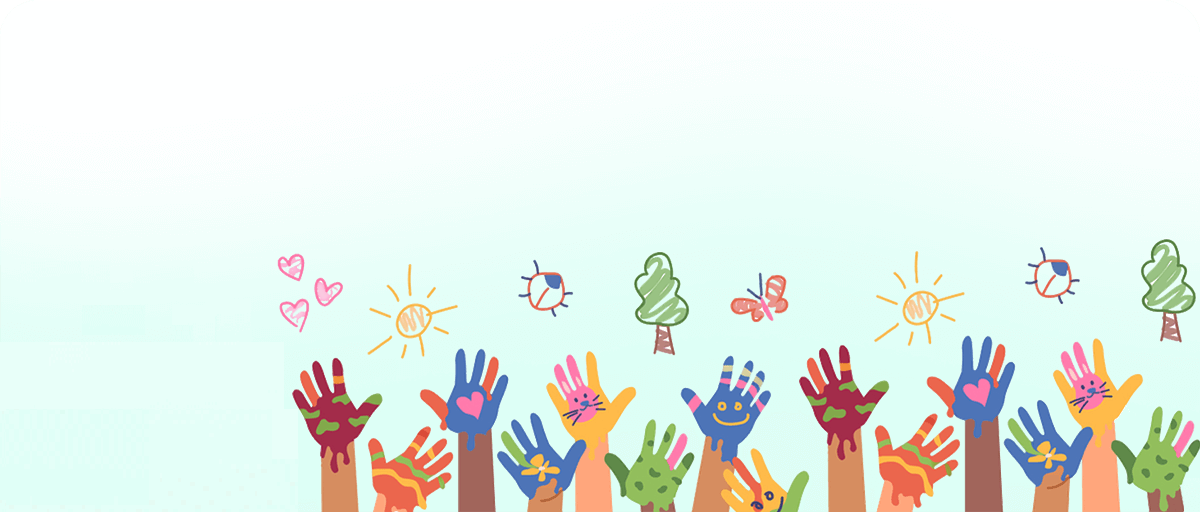
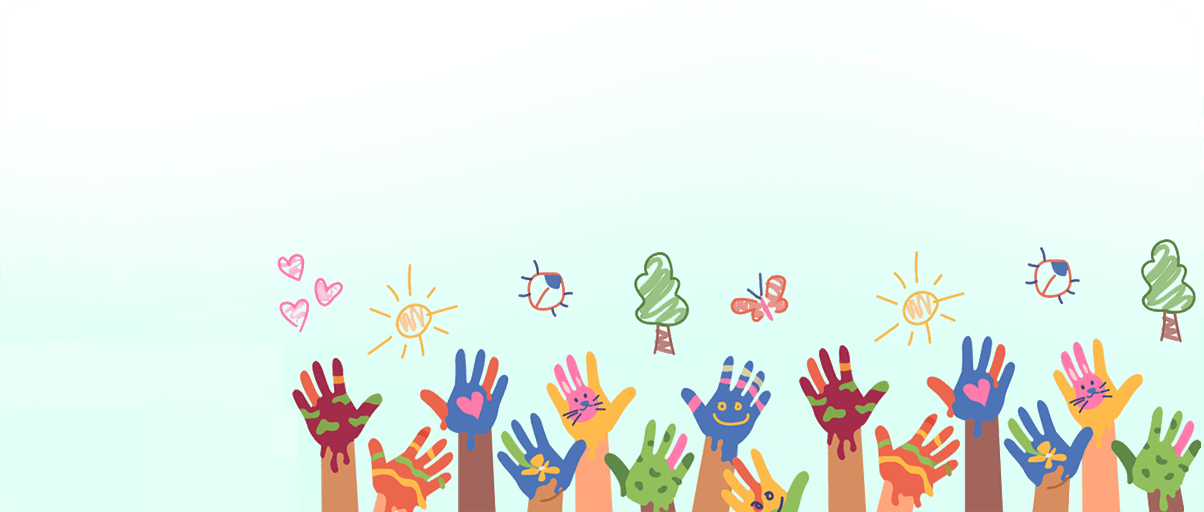
modifiche

diff --git a/Front/src/App.css b/Front/src/App.css
@@ -322,6 +322,7 @@ footer.footer-custom.home-footer {
   z-index: 2;
 }
 
+
 .footer-image {
   position: absolute;     
   left: 600px;
@@ -334,15 +335,15 @@ footer.footer-custom.home-footer {
 }
 
 .footer-image2 {
-  position: absolute;     
-  left: 1790px;
-  transform: translateX(-50%);
-  width: 1200px;    
-  height: 170px;   
-  z-index: 0;      
+  position: absolute;
+  right: 0; 
   bottom: 0px;
-  container: flex;
+  width: 1200px;
+  height: 170px;   
+  z-index: 0;
+  
 }
+
 
 .mobile-menu {
   display: none;
@@ -625,6 +626,27 @@ footer.footer-custom.home-footer {
     align-items: flex-start !important;
    
   }
+
+
+
+  .footer-image{
+    position: relative; /* non absolute */
+    width: 100%;  /* occupano metà larghezza ciascuna */
+    height: 100%; /* proporzioni corrette */
+    margin-left: 70px
+  }
+
+  .footer-image2 {
+    position: relative; /* non absolute */
+    width: 100%;  /* occupano metà larghezza ciascuna */
+    height: 100%; /* proporzioni corrette */
+    margin-top: 60px;
+    margin-left: -500px !important;
+  }
+
+
+
+  
   .mobile-menu .wrap-sedi {
     display: inline-block;
     margin-bottom: 7px;
@@ -760,5 +782,59 @@ footer.footer-custom.home-footer {
   } 
 }
  
+@media (max-width: 1366px) {
+  .floating-image {
+    position: absolute;
+  top: px;                     
+  left: 541px;                    
+  transform: translate(-50%, -50%); 
+  height: 430px;                
+  width: 1080px;
+  z-index: 1; 
+  }
+
+  .floating-image2 {
+    position: absolute;
+  top: px;                     
+  left: 754px;                    
+  transform: translate(-50%, -50%); 
+  height: 430px;                
+  width: 1200px;
+  z-index: 0; 
+  }
+
+ footer.footer-custom {
+  background-color: #fac460 !important;
+  color: #2B2B85 !important;     
+  font-size: 2.0rem !important;
+  text-align: center;
+  z-index: 2;
+  position: relative;
+}
+
+/* contenitore delle immagini sotto al footer */
+.footer-images {
+  position: relative;
+  width: 100%;
+  height: 120px;   /* altezza delle immagini */
+  overflow: hidden;
+}
+
+/* immagini a sinistra e a destra */
+.footer-image,
+.footer-image2 {
+  position: absolute;
+  bottom: 0;
+  height: 120px;
+}
+
+.footer-image {
+  left: 250px;
+}
+
+.footer-image2 {
+  right: -200px;
+}
+}
 
 

diff --git a/Front/src/App.js b/Front/src/App.js
@@ -278,16 +278,18 @@ function App() {
 
       {/* Footer */}
       <footer className="footer-custom text-center py-3 text-secondary mt-5 shadow-sm">
-        <div>© {new Date().getFullYear()} Associazione IncontRho. Tutti i diritti riservati.</div>
-      </footer>
+  <div>
+    © {new Date().getFullYear()} Associazione IncontRho. Tutti i diritti riservati.
+  </div>
+</footer>
 
-      {/* Mostra solo nella Home */}
-      {location.pathname === "/" && (
-        <>
-          <img src={FooterImage} alt="Prato" className="footer-image img-fluid" />
-          <img src={FooterImage2} alt="Prato2" className="footer-image2 img-fluid" />
-        </>
-      )}
+{/* Mostra solo nella Home */}
+{location.pathname === "/" && (
+  <div className="footer-images">
+    <img src={FooterImage} alt="Prato" className="footer-image img-fluid" />
+    <img src={FooterImage2} alt="Prato2" className="footer-image2 img-fluid" />
+  </div>
+)}
     </div>
   );
 }

diff --git a/Front/public/googlee650b749ad444ea5.html b/Front/public/googlee650b749ad444ea5.html
@@ -1,0 +1,1 @@
+google-site-verification: googlee650b749ad444ea5.html
